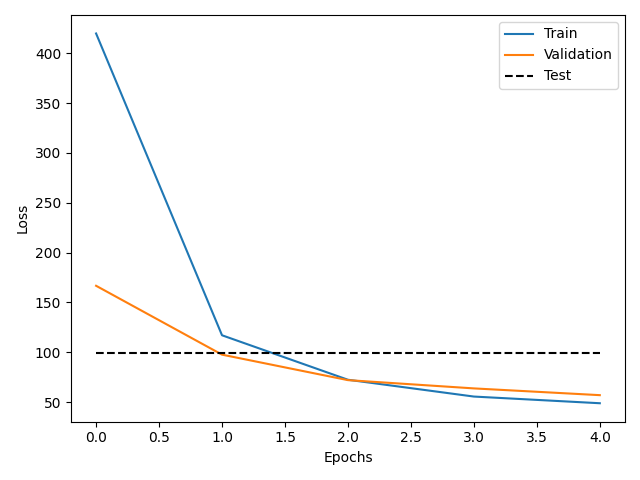
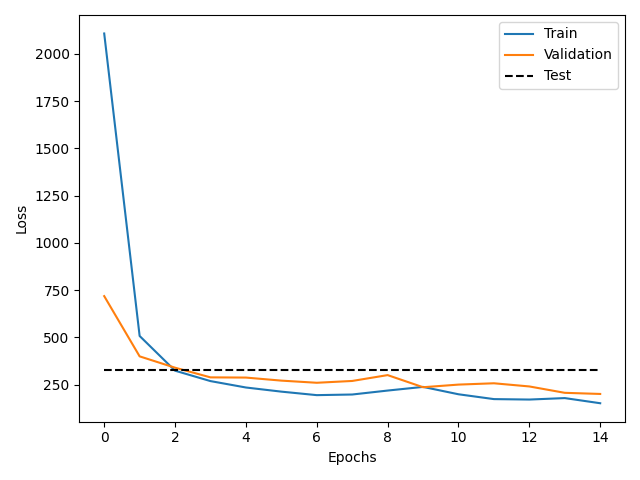
Inspecting spiketrain as grayscale image

diff --git a/train.py b/train.py
@@ -6,14 +6,17 @@ import time
 
 from mnist.load_mnist import load_mnist
 from STAL.STAL import SpikeThresholdAdaptiveLearning
+# from STAL_loss.loss_low_sp import DefaultLoss
 from STAL_loss.default_loss import DefaultLoss
+
+device = torch.device("mps")
 
 train_X, train_y, test_X, test_y = load_mnist()
 
 print(train_X[0].shape, train_y[0])
 
 omega = train_X[0].size(0)
-psi = 10
+psi = 50
 c = 1
 l1_sz = omega // 2 # 392
 l2_sz = omega // 4 # 196
@@ -58,7 +61,9 @@ optimizer = torch.optim.AdamW(STAL.parameters(), lr=0.001)
 
 # Train/Validation
 train_X, val_X, train_y, val_y = train_test_split(train_X, train_y, test_size=0.2, random_state=42)
-n_epochs = 5
+n_epochs = 15
+
+STAL.to(device)
 
 start = time.time()
 
@@ -67,7 +72,7 @@ val_loss = []
 for epoch in range(n_epochs):
     e = []
     for i in range(0, len(train_X), batch_size):
-        x_train = train_X[i:i+batch_size]
+        x_train = train_X[i:i+batch_size].to(device)
         optimizer.zero_grad()
         h, Z1, Z2 = STAL(x_train)
         loss = default_loss(h, x_train, Z1, Z2)
@@ -75,31 +80,31 @@ for epoch in range(n_epochs):
         optimizer.step()
         e.append(loss.item())
     train_loss.append(np.mean(e))
-    print(f"Epoch {epoch + 1} - Train Loss: {train_loss[-1]}")
+    print(f"Epoch {epoch + 1} - Train Loss: {train_loss[-1]:.3f}")
     
     e = []
     with torch.no_grad():
         for i in range(0, len(val_X), batch_size):
-            x_val = val_X[i:i+batch_size]
+            x_val = val_X[i:i+batch_size].to(device)
             h, Z1, Z2 = STAL(x_val)
             loss = default_loss(h, x_val, Z1, Z2)
             e.append(loss.item())
     val_loss.append(np.mean(e))
-    print(f"\t- Validation Loss: {val_loss[-1]}")
+    print(f"\t- Validation Loss: {val_loss[-1]:.3f}")
 
 # Test
 test_loss = []
 for i in range(0, len(test_X), batch_size):
-    x_test = test_X[:batch_size]
+    x_test = test_X[:batch_size].to(device)
     h, Z1, Z2 = STAL(x_test)
     loss = default_loss(h, x_test, Z1, Z2)
     test_loss.append(loss.item())
 print("---")
-print(f"Test Loss: {np.mean(test_loss)}")
+print(f"Test Loss: {np.mean(test_loss):.3f}")
 print("---")
 
 end = time.time()
-print(f"Training took {end-start:.3f}s")
+print(f"Training took {end-start:.2f}s")
 
 plt.plot(train_loss, label="Train")
 plt.plot(val_loss, label="Validation")
@@ -112,6 +117,7 @@ plt.savefig("img/loss_curves_STAL_mnist")
 plt.close()
 
 # Inspect the spike train after training
+STAL.cpu()
 STAL.eval()
 
 batch_size = 1000
@@ -134,5 +140,6 @@ axs[1].legend()
 
 plt.suptitle("Spike trains after training of STAL")
 plt.tight_layout()
-plt.savefig("img/post_training_example_mnist.png")
+plt.savefig("img/post_training_example_mnist_low_sp.png")
 plt.close()
+

diff --git a/STAL_loss/loss_low_sp.py b/STAL_loss/loss_low_sp.py
@@ -7,7 +7,7 @@ class DefaultLoss(torch.nn.Module):
     """
     def __init__(self):
         super(DefaultLoss, self).__init__()
-        self.__name__ = "Default Loss"
+        self.__name__ = "Low Spikes Loss"
         print(f"{self.__name__} initialized.")
 
     def forward(self, h, X, Z1, Z2):
@@ -27,8 +27,8 @@ class DefaultLoss(torch.nn.Module):
         n_samples = X.shape[0]
         n_timesteps = X.shape[1]
         h_unroll = h.reshape(n_samples, n_timesteps, -1)
-        n_spikes_per_timestep = h_unroll.shape[2]
-        weights = torch.arange(1, n_spikes_per_timestep + 1, dtype=h_unroll.dtype, device=h_unroll.device)
+        psi = h_unroll.shape[2]
+        weights = torch.arange(1, psi + 1, dtype=h_unroll.dtype, device=h_unroll.device)
         # Reverse the weights, so that the first spike is the most important
         weights = torch.flip(weights, [0])
         h_weighted = torch.sum(h_unroll * weights, dim=2)
@@ -48,9 +48,8 @@ class DefaultLoss(torch.nn.Module):
         area_X = torch.sum(X, dim=1)
         n_spikes = torch.sum(h, dim=1)
         
-        # E.g., we want to have 525 spikes if the area of X is 525,
-        # so we add a loss of the L1 or L2 distance:  
-        L1 = torch.abs(n_spikes - (area_X * n_spikes_per_timestep))        
+        area_X = 5
+        L1 = torch.abs(n_spikes - (area_X * psi))        
        
         MI = mi
         cnt = 1
